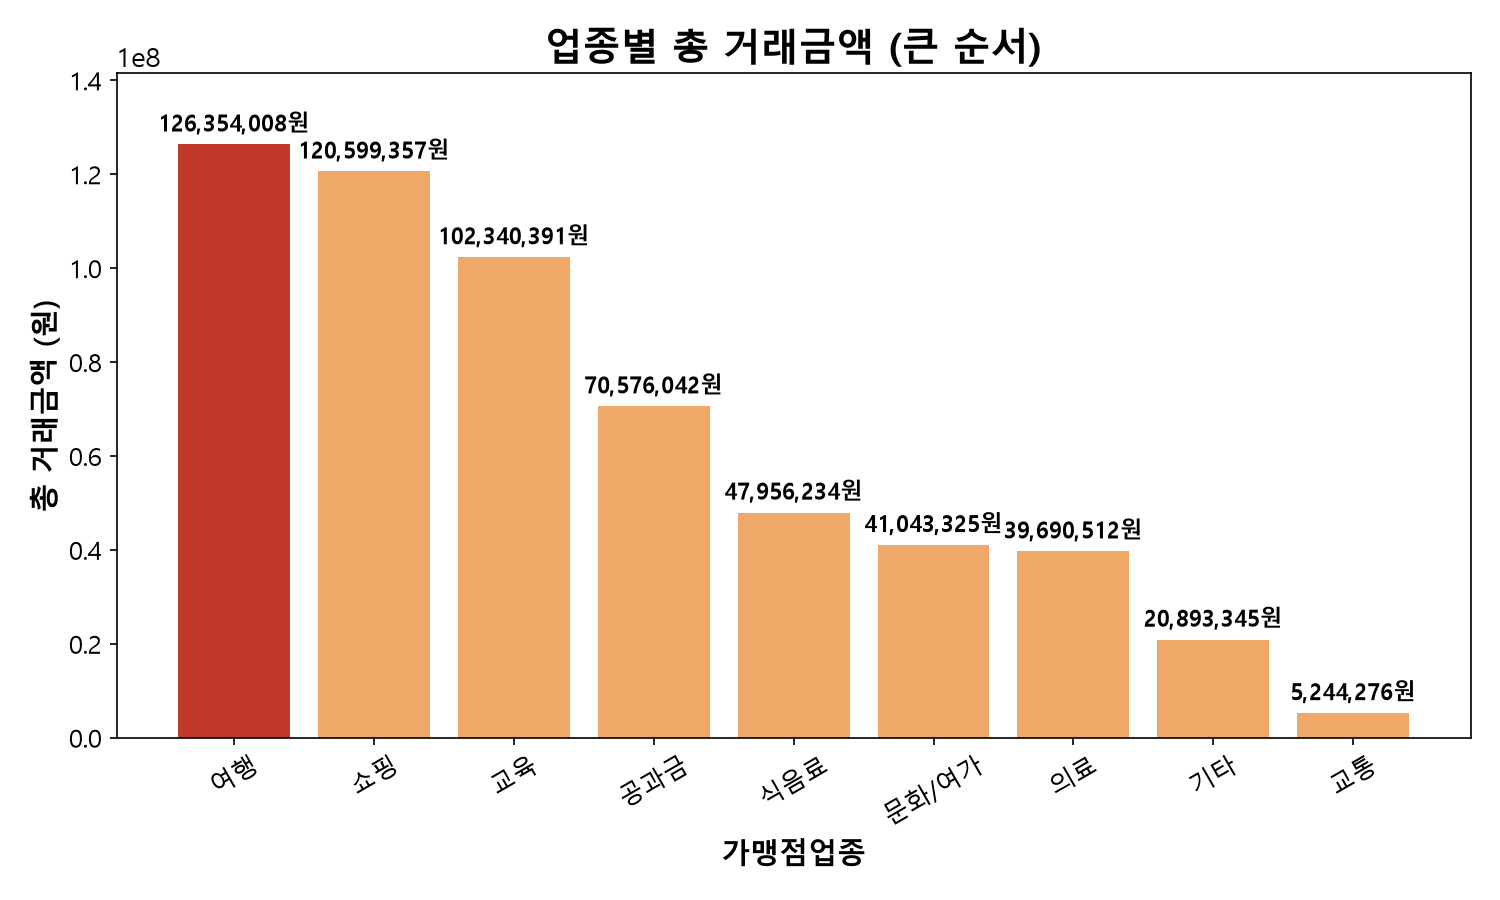
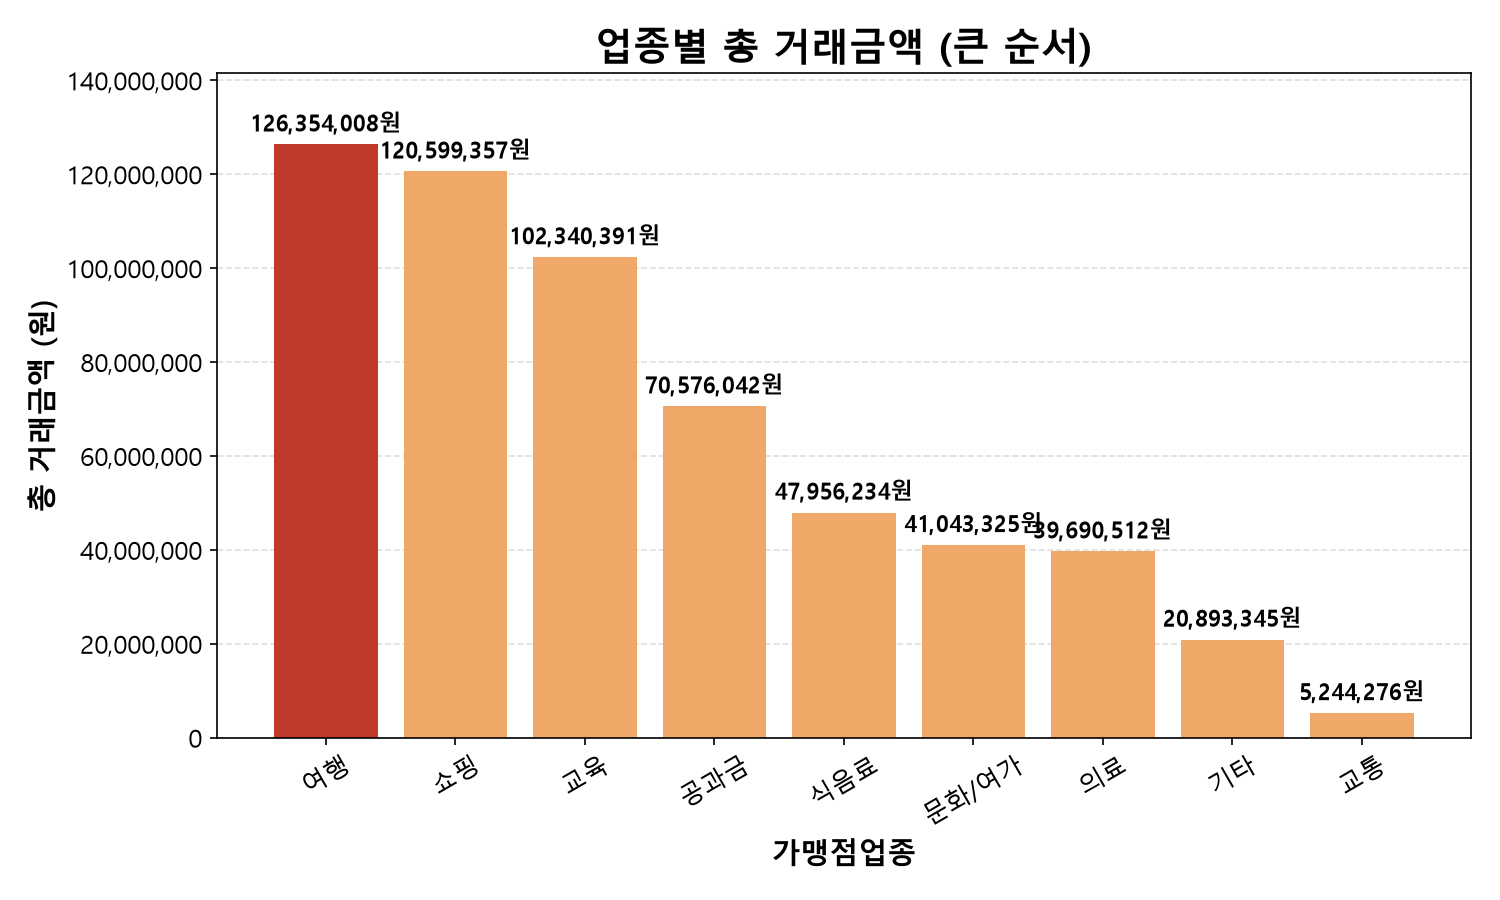
막대그래프에 배경 눈금선 추가, 세로축 지수표기를 원 단위 콤마 표기로 변경
Claude-Session: https://claude.ai/code/session_01LZdg1f9QtFQKoLo3eTQjnP

diff --git a/scripts/plot_report_업종_세로.py b/scripts/plot_report_업종_세로.py
@@ -2,6 +2,7 @@ import os
 import pandas as pd
 import matplotlib.pyplot as plt
 import matplotlib as mpl
+from matplotlib.ticker import FuncFormatter
 
 mpl.rcParams["font.family"] = "Malgun Gothic"
 mpl.rcParams["axes.unicode_minus"] = False
@@ -20,6 +21,12 @@ ax.set_xlabel("가맹점업종", fontsize=14, fontweight="bold")
 ax.set_ylabel("총 거래금액 (원)", fontsize=14, fontweight="bold")
 ax.tick_params(axis="x", rotation=30, labelsize=12)
 ax.tick_params(axis="y", labelsize=12)
+
+# 세로축 눈금이 1.2e8 같은 지수표현으로 나오면 일반인이 읽기 어려우므로
+# 천단위 콤마가 찍힌 원 단위 숫자로 바꿈. 배경 눈금선도 켜서 막대 높이를 눈으로 비교하기 쉽게 함
+ax.yaxis.set_major_formatter(FuncFormatter(lambda x, _: f"{x:,.0f}"))
+ax.grid(axis="y", linestyle="--", alpha=0.4, zorder=0)
+ax.set_axisbelow(True)
 
 for bar in bars:
     height = bar.get_height()

diff --git a/scripts/plot_결제수단.py b/scripts/plot_결제수단.py
@@ -23,6 +23,8 @@ ax.set_xlabel("결제수단", fontsize=14, fontweight="bold")
 ax.set_ylabel("거래 건수", fontsize=14, fontweight="bold")
 ax.tick_params(axis="x", labelsize=12)
 ax.tick_params(axis="y", labelsize=12)
+ax.grid(axis="y", linestyle="--", alpha=0.4, zorder=0)
+ax.set_axisbelow(True)
 
 for bar, p in zip(bars, pct):
     height = bar.get_height()
